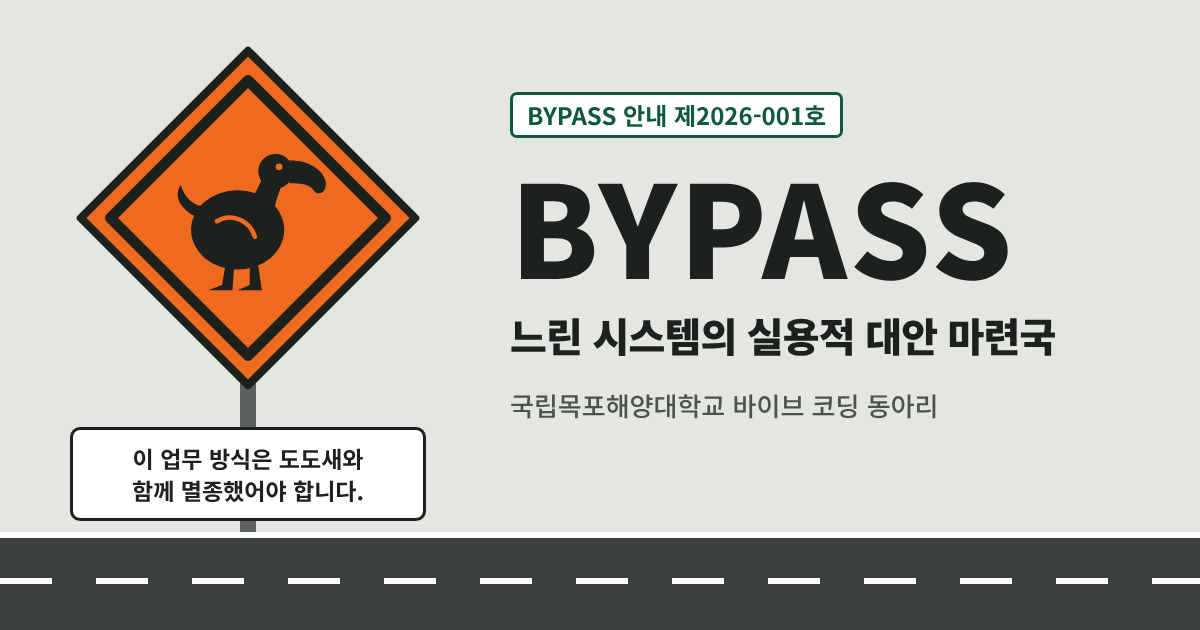
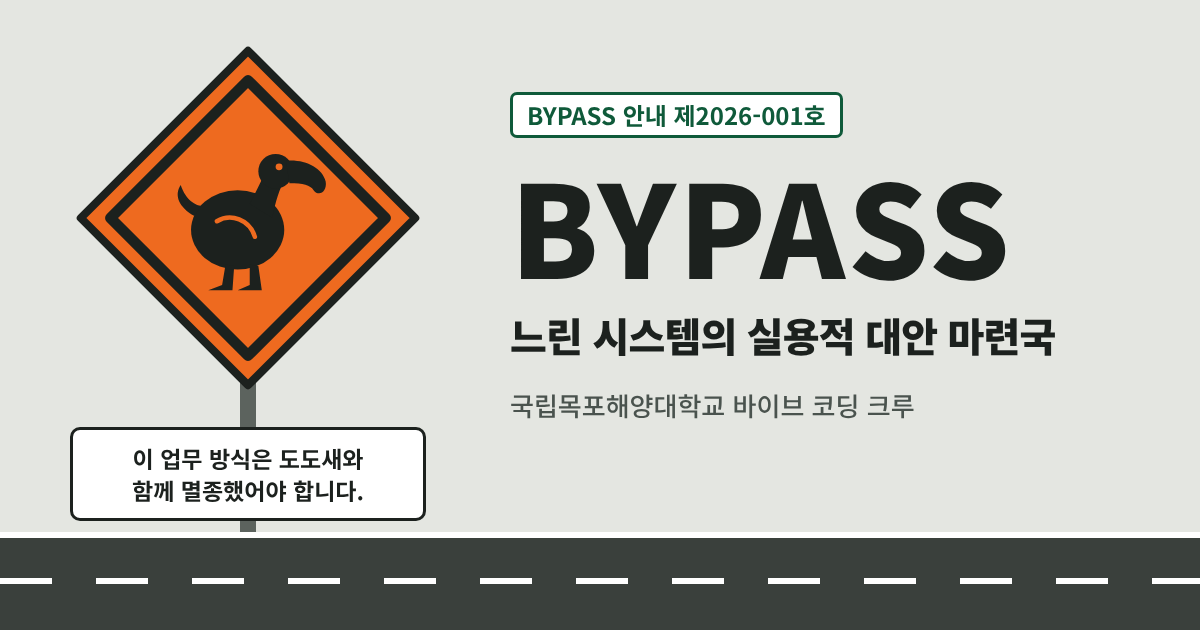
'동아리'는 '크루'로, '부원'은 '국원'으로
- 정식 등록된 동아리가 아니므로 소개·바닥글·링크 미리보기에서 '바이브 코딩 크루'
- 자주 묻는 질문: 학교에 정식 등록된 동아리도 아닌 학생 자율 크루임을 밝힘
- 부원 → 국원 (모집, 공사장 D구역, 회원 구분 이름, 국원으로 등록 버튼 등)
- 링크 미리보기 이미지(og-image.png)도 '크루'로 다시 만듦

Claude-Session: https://claude.ai/code/session_01RiF4GaAqkqEHxSvvudpbGu

diff --git a/site/index.html b/site/index.html
@@ -152,14 +152,14 @@
           </div>
         </article>
 
-        <!-- D구역: 부원 전용 (회원 구분이 부원·운영진이면 열림) -->
+        <!-- D구역: 국원 전용 (회원 구분이 국원·운영진이면 열림) -->
         <article class="card card-locked" aria-labelledby="c-crew" data-crew-card>
-          <div class="card-head"><p class="card-no">D구역</p><h2 id="c-crew">부원 전용</h2></div>
+          <div class="card-head"><p class="card-no">D구역</p><h2 id="c-crew">국원 전용</h2></div>
           <div class="card-body">
             <div data-crew-locked>
               <div class="lock-band" aria-hidden="true"></div>
               <p class="lock-title">공사 예정 구역</p>
-              <p class="lock-text">부원으로 등록되면 이번 주 회의 안건과 자료실이 열립니다. 부원 등록은 운영진이 처리합니다.</p>
+              <p class="lock-text">국원으로 등록되면 이번 주 회의 안건과 자료실이 열립니다. 국원 등록은 운영진이 처리합니다.</p>
               <ul class="zone-list">
                 <li>이번 주 회의 안건 <span class="zone-state">잠김</span></li>
                 <li>자료실 <span class="zone-state">잠김</span></li>
@@ -203,14 +203,14 @@
         </article>
 
 
-        <!-- E구역: 접수된 제보 (부원·운영진) -->
+        <!-- E구역: 접수된 제보 (국원·운영진) -->
         <article class="card card-wide card-locked" aria-labelledby="c-reports" data-zone="reports">
           <div class="card-head card-head-row"><div><p class="card-no">E구역</p><h2 id="c-reports">접수된 불편 제보</h2></div><span class="card-count" data-count="reports" hidden></span></div>
           <div class="card-body">
             <div data-locked>
               <div class="lock-band" aria-hidden="true"></div>
-              <p class="lock-title">부원 열람 구역</p>
-              <p class="lock-text">메인 페이지로 들어온 불편 제보는 부원으로 등록되면 이곳에서 볼 수 있습니다. 제보자 연락처는 운영진만 봅니다.</p>
+              <p class="lock-title">국원 열람 구역</p>
+              <p class="lock-text">메인 페이지로 들어온 불편 제보는 국원으로 등록되면 이곳에서 볼 수 있습니다. 제보자 연락처는 운영진만 봅니다.</p>
             </div>
             <div data-open hidden>
               <p class="card-lead" data-lead></p>
@@ -243,7 +243,7 @@
             <div data-locked>
               <div class="lock-band" aria-hidden="true"></div>
               <p class="lock-title">운영진 전용 구역</p>
-              <p class="lock-text">회원을 부원·운영진으로 등록하거나 해제하는 곳입니다.</p>
+              <p class="lock-text">회원을 국원·운영진으로 등록하거나 해제하는 곳입니다.</p>
             </div>
             <div data-open hidden>
               <p class="card-lead">구분을 바꾸면 바로 저장됩니다. 바뀐 구분은 그 회원이 다시 로그인하면(늦어도 1시간 안에) 적용됩니다. 자기 자신의 구분은 바꿀 수 없습니다.</p>
@@ -263,7 +263,7 @@
 <footer class="site-foot">
   <div class="wrap">
     <p class="foot-name"><strong>BYPASS</strong>느린 시스템의 실용적 대안 마련국</p>
-    <p class="foot-note">본 사이트는 국립목포해양대학교 학생 자율 동아리 BYPASS가 운영하며, 대학 행정 부서 및 정부 기관과 무관합니다.</p>
+    <p class="foot-note">본 사이트는 국립목포해양대학교 학생 자율 크루 BYPASS가 운영하며, 대학 행정 부서 및 정부 기관과 무관합니다.</p>
   </div>
 </footer>
 
@@ -330,7 +330,7 @@
 
   function statusChip(status) { return el('span', `st st-${STATUS[status] || 'received'}`, status); }
 
-  const ROLE_LABEL = { general: '일반 회원', member: '부원', staff: '운영진' };
+  const ROLE_LABEL = { general: '일반 회원', member: '국원', staff: '운영진' };
   const bumpCount = (key, d) => { const c = document.querySelector(`[data-count="${key}"]`); const n = (parseInt(c.textContent, 10) || 0) + d; c.textContent = `${n}건`; };
 
   /* 두 번 눌러야 지워지는 삭제 버튼: '삭제' → '정말 삭제?' */
@@ -436,7 +436,7 @@
     if (member) {
       // 로그인한 채로 신청한 경우: 회원 계정과 바로 연결
       const who = el('span', 'inbox-account');
-      const promote = el('button', 'mini-btn mini-go', '부원으로 등록');
+      const promote = el('button', 'mini-btn mini-go', '국원으로 등록');
       promote.type = 'button';
       promote.dataset.applicant = member.id;
       const paint = () => {
@@ -447,7 +447,7 @@
       promote.addEventListener('click', async () => {
         promote.disabled = true; promote.textContent = '등록 중…';
         const err = await changeRole(member, 'member');
-        promote.disabled = false; promote.textContent = '부원으로 등록';
+        promote.disabled = false; promote.textContent = '국원으로 등록';
         if (err) alertLine(li, err); else paint();
       });
       paint();
@@ -532,7 +532,7 @@
   })();
 
   /* ===== C구역 공지 · D구역 회의 안건·자료실 =====
-     읽기: 공지는 회원 모두, 안건·자료는 부원·운영진. 쓰기·고치기·지우기는 운영진만 (supabase/003_board.sql). */
+     읽기: 공지는 회원 모두, 안건·자료는 국원·운영진. 쓰기·고치기·지우기는 운영진만 (supabase/003_board.sql). */
   const isStaffUser = role.key === 'staff';
   if (isStaffUser) document.querySelectorAll('[data-staff-only]').forEach(x => { x.hidden = false; });
 
@@ -631,7 +631,7 @@
     prepend: n => { notices.push(n); renderNotices(); }
   });
 
-  // ----- 회의 안건 · 자료실 (부원·운영진) -----
+  // ----- 회의 안건 · 자료실 (국원·운영진) -----
   const agendaReports = new Set();   // 안건에 올라간 제보 번호 (E구역 버튼 표시용)
   function paintAgendaButtons() {
     document.querySelectorAll('[data-agenda-btn]').forEach(b => {
@@ -751,7 +751,7 @@
     return true;
   }
 
-  // E구역: 접수된 제보 (부원·운영진)
+  // E구역: 접수된 제보 (국원·운영진)
   if (role.key !== 'general') {
     openZone('reports');
     const isStaff = role.key === 'staff';

diff --git a/index.html b/index.html
@@ -4,14 +4,14 @@
 <meta charset="utf-8">
 <meta name="viewport" content="width=device-width, initial-scale=1">
 <title>BYPASS | 느린 시스템의 실용적 대안 마련국</title>
-<meta name="description" content="BYPASS는 국립목포해양대학교 바이브 코딩 동아리입니다. 학교생활의 불필요한 절차를 AI와 코드로 우회합니다.">
+<meta name="description" content="BYPASS는 국립목포해양대학교 바이브 코딩 크루입니다. 학교생활의 불필요한 절차를 AI와 코드로 우회합니다.">
 <!-- 링크 미리보기 (카카오톡·인스타그램·디스코드 등) -->
 <meta property="og:type" content="website">
 <meta property="og:site_name" content="BYPASS">
 <meta property="og:locale" content="ko_KR">
 <meta property="og:url" content="https://teambypass.vercel.app/">
 <meta property="og:title" content="BYPASS | 느린 시스템의 실용적 대안 마련국">
-<meta property="og:description" content="국립목포해양대학교 바이브 코딩 동아리. 학교생활의 불필요한 절차를 AI와 코드로 우회합니다.">
+<meta property="og:description" content="국립목포해양대학교 바이브 코딩 크루. 학교생활의 불필요한 절차를 AI와 코드로 우회합니다.">
 <meta property="og:image" content="https://teambypass.vercel.app/assets/og-image.png">
 <meta property="og:image:width" content="1200">
 <meta property="og:image:height" content="630">
@@ -399,7 +399,7 @@
   }
   @media (max-width: 600px) { .seal-board { border-width: 3px; } }
 
-  /* 부원 모집: 큰 안내 표지 */
+  /* 국원 모집: 큰 안내 표지 */
   .recruit-sign {
     display: grid; grid-template-columns: minmax(0, 1fr) minmax(0, 1.08fr); gap: 44px; align-items: start;
     background: var(--green); color: #fff; border-radius: 22px; padding: 52px 52px 52px;
@@ -671,7 +671,7 @@
         <li><a href="#statute">설치 규정</a></li>
         <li><a href="#process">처리 절차</a></li>
         <li><a href="#dockets">처리 현황</a></li>
-        <li><a href="#recruit">부원 모집</a></li>
+        <li><a href="#recruit">국원 모집</a></li>
         <li><a href="#scope">업무 범위</a></li>
         <li><a href="#faq">자주 묻는 질문</a></li>
       </ul>
@@ -688,7 +688,7 @@
       <div class="hero-copy">
         <p class="sign-code">BYPASS 안내 제2026-001호</p>
         <h1 id="hero-title">귀하의 반복 업무는<br>우회 대상으로 지정되었습니다.</h1>
-        <p class="identity">BYPASS는 국립목포해양대학교 바이브 코딩 동아리입니다.<br>학교생활의 불필요한 절차를 AI와 코드로 우회합니다.</p>
+        <p class="identity">BYPASS는 국립목포해양대학교 바이브 코딩 크루입니다.<br>학교생활의 불필요한 절차를 AI와 코드로 우회합니다.</p>
         <div class="actions" id="hero-actions">
           <button type="button" class="btn btn-primary" id="cta-report" data-open="report">불편 제보하기</button>
           <button type="button" class="btn btn-secondary" id="cta-join" data-open="join">BYPASS 합류하기</button>
@@ -909,7 +909,7 @@
     </div>
   </section>
 
-  <!-- ⑤ 부원 공개 모집 -->
+  <!-- ⑤ 국원 공개 모집 -->
   <section class="sec" id="recruit" aria-labelledby="recruit-title">
     <div class="wrap">
       <div class="recruit-sign on-green">
@@ -923,7 +923,7 @@
         </div>
         <div class="plate">
           <table class="req">
-            <caption>부원 모집 요강</caption>
+            <caption>국원 모집 요강</caption>
             <tbody>
               <tr><th scope="row">지원 자격</th><td>국립목포해양대학교 재학생. 전공, 학년, 코딩 경험 무관</td></tr>
               <tr><th scope="row">우대 사항</th><td>같은 일을 세 번 반복하면 참을 수 없는 분<br>이미 엑셀 매크로를 몰래 만들어 본 분</td></tr>
@@ -966,7 +966,7 @@
           </details>
           <details>
             <summary><span class="q">Q.</span><span>공식 행정기관입니까?</span></summary>
-            <p>아닙니다. 학생 자율 동아리이며 행정 권한이 없습니다.<br>진지한 것은 말투뿐입니다.</p>
+            <p>아닙니다. 학교에 정식 등록된 동아리도 아닌, 학생들이 모인 자율 크루이며 행정 권한이 없습니다.<br>진지한 것은 말투뿐입니다.</p>
           </details>
           <details>
             <summary><span class="q">Q.</span><span>어떤 불편을 제보할 수 있습니까?</span></summary>
@@ -988,7 +988,7 @@
   <div class="wrap">
     <div class="foot-info">
       <p class="foot-name"><strong>BYPASS</strong>느린 시스템의 실용적 대안 마련국</p>
-      <p>본 사이트는 국립목포해양대학교 학생 자율 동아리 BYPASS가 운영하며, 대학 행정 부서 및 정부 기관과 무관합니다.</p>
+      <p>본 사이트는 국립목포해양대학교 학생 자율 크루 BYPASS가 운영하며, 대학 행정 부서 및 정부 기관과 무관합니다.</p>
       <dl class="foot-meta">
         <dt>연락처</dt><dd><a class="foot-ask" href="https://open.kakao.com/o/snJ3HuTi" target="_blank" rel="noopener">카카오톡 1:1 오픈채팅 ‘문의 창구’<span class="sr-only"> (새 창)</span></a></dd>
         <dt>최종 개정</dt><dd>2026. 10. 19.</dd>
@@ -1091,7 +1091,7 @@
   const OPERATING_STATE = 'normal';
   const STATUS_TEXT = {
     normal: '본 국은 현재 정상 운영 중입니다. 제보는 상시 접수합니다.',
-    recruiting: '2026학년도 BYPASS 부원 공개 모집 중 (~ MM. DD.)',
+    recruiting: '2026학년도 BYPASS 국원 공개 모집 중 (~ MM. DD.)',
     exam: '시험 기간 중 본 국의 심의 업무가 일시 정지됩니다. 접수는 계속됩니다.'
   };
 

diff --git a/join/index.html b/join/index.html
@@ -90,14 +90,14 @@
         <p class="panel-alt">이미 회원이신가요? <a href="/login/">로그인</a></p>
       </div>
     </section>
-    <p class="panel-note">회원가입은 사이트 계정을 만드는 절차입니다. 동아리 부원 합류는 <a href="/#recruit">부원 모집</a>에서 따로 신청합니다.</p>
+    <p class="panel-note">회원가입은 사이트 계정을 만드는 절차입니다. BYPASS 국원 합류는 <a href="/#recruit">국원 모집</a>에서 따로 신청합니다.</p>
   </div>
 </main>
 
 <footer class="site-foot">
   <div class="wrap">
     <p class="foot-name"><strong>BYPASS</strong>느린 시스템의 실용적 대안 마련국</p>
-    <p class="foot-note">본 사이트는 국립목포해양대학교 학생 자율 동아리 BYPASS가 운영하며, 대학 행정 부서 및 정부 기관과 무관합니다.</p>
+    <p class="foot-note">본 사이트는 국립목포해양대학교 학생 자율 크루 BYPASS가 운영하며, 대학 행정 부서 및 정부 기관과 무관합니다.</p>
   </div>
 </footer>
 

diff --git a/login/index.html b/login/index.html
@@ -78,7 +78,7 @@
 <footer class="site-foot">
   <div class="wrap">
     <p class="foot-name"><strong>BYPASS</strong>느린 시스템의 실용적 대안 마련국</p>
-    <p class="foot-note">본 사이트는 국립목포해양대학교 학생 자율 동아리 BYPASS가 운영하며, 대학 행정 부서 및 정부 기관과 무관합니다.</p>
+    <p class="foot-note">본 사이트는 국립목포해양대학교 학생 자율 크루 BYPASS가 운영하며, 대학 행정 부서 및 정부 기관과 무관합니다.</p>
   </div>
 </footer>
 

diff --git a/assets/auth.js b/assets/auth.js
@@ -32,7 +32,7 @@
   function roleOf(user) {
     const r = user && user.app_metadata && user.app_metadata.bypass_role;
     if (r === 'staff') return { key: 'staff', label: '운영진' };
-    if (r === 'member') return { key: 'member', label: '부원' };
+    if (r === 'member') return { key: 'member', label: '국원' };
     return { key: 'general', label: '일반 회원' };
   }
 
